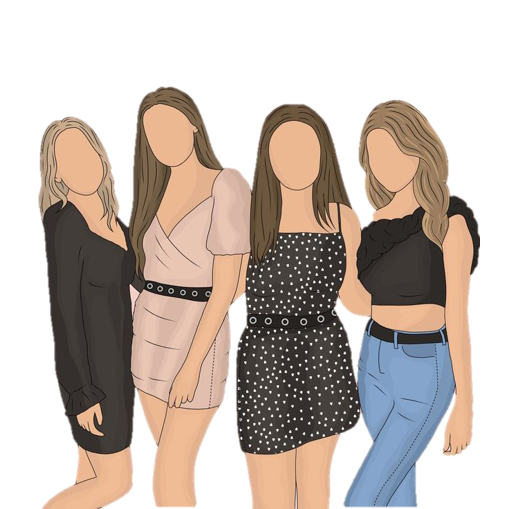
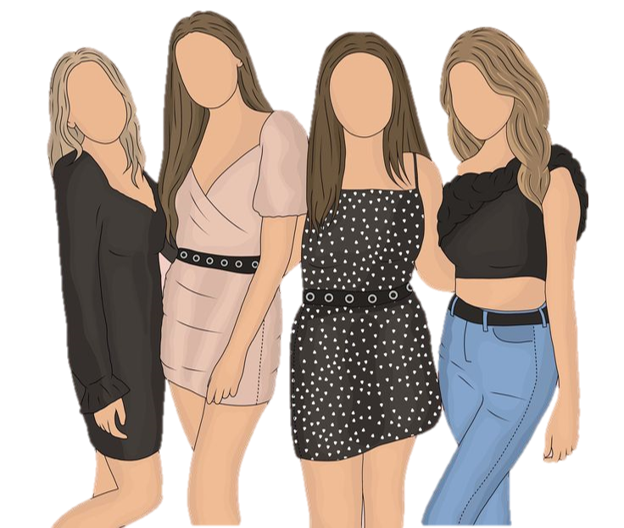
edits

diff --git a/index.php b/index.php
@@ -15,7 +15,7 @@
                 <img src="img/obb2.png" alt="Responsive image">
             </li>
             <li class="li">
-                <img src="img/co.png" alt="Responsive image">
+                <img src="img/obb3.png" alt="Responsive image">
             </li>
         </ul>
     </div>
